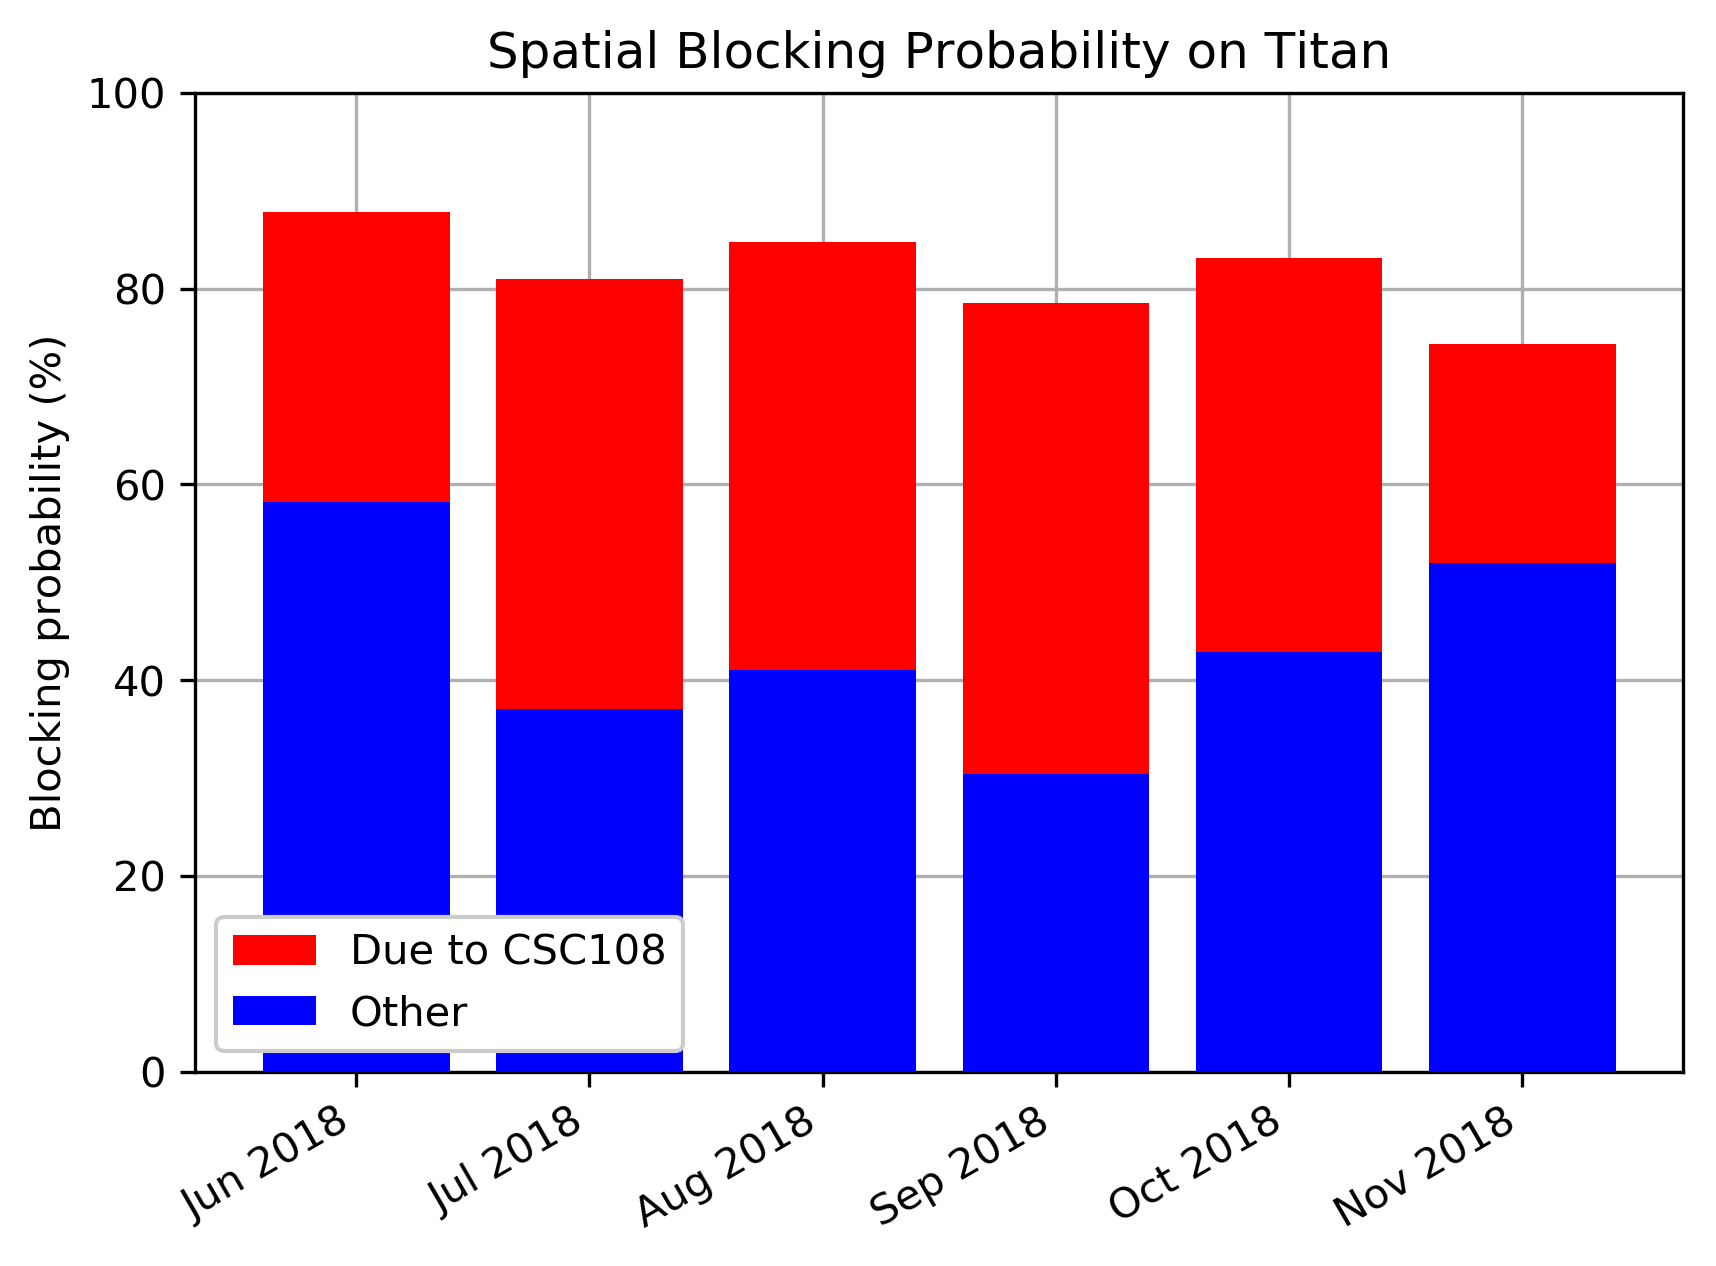
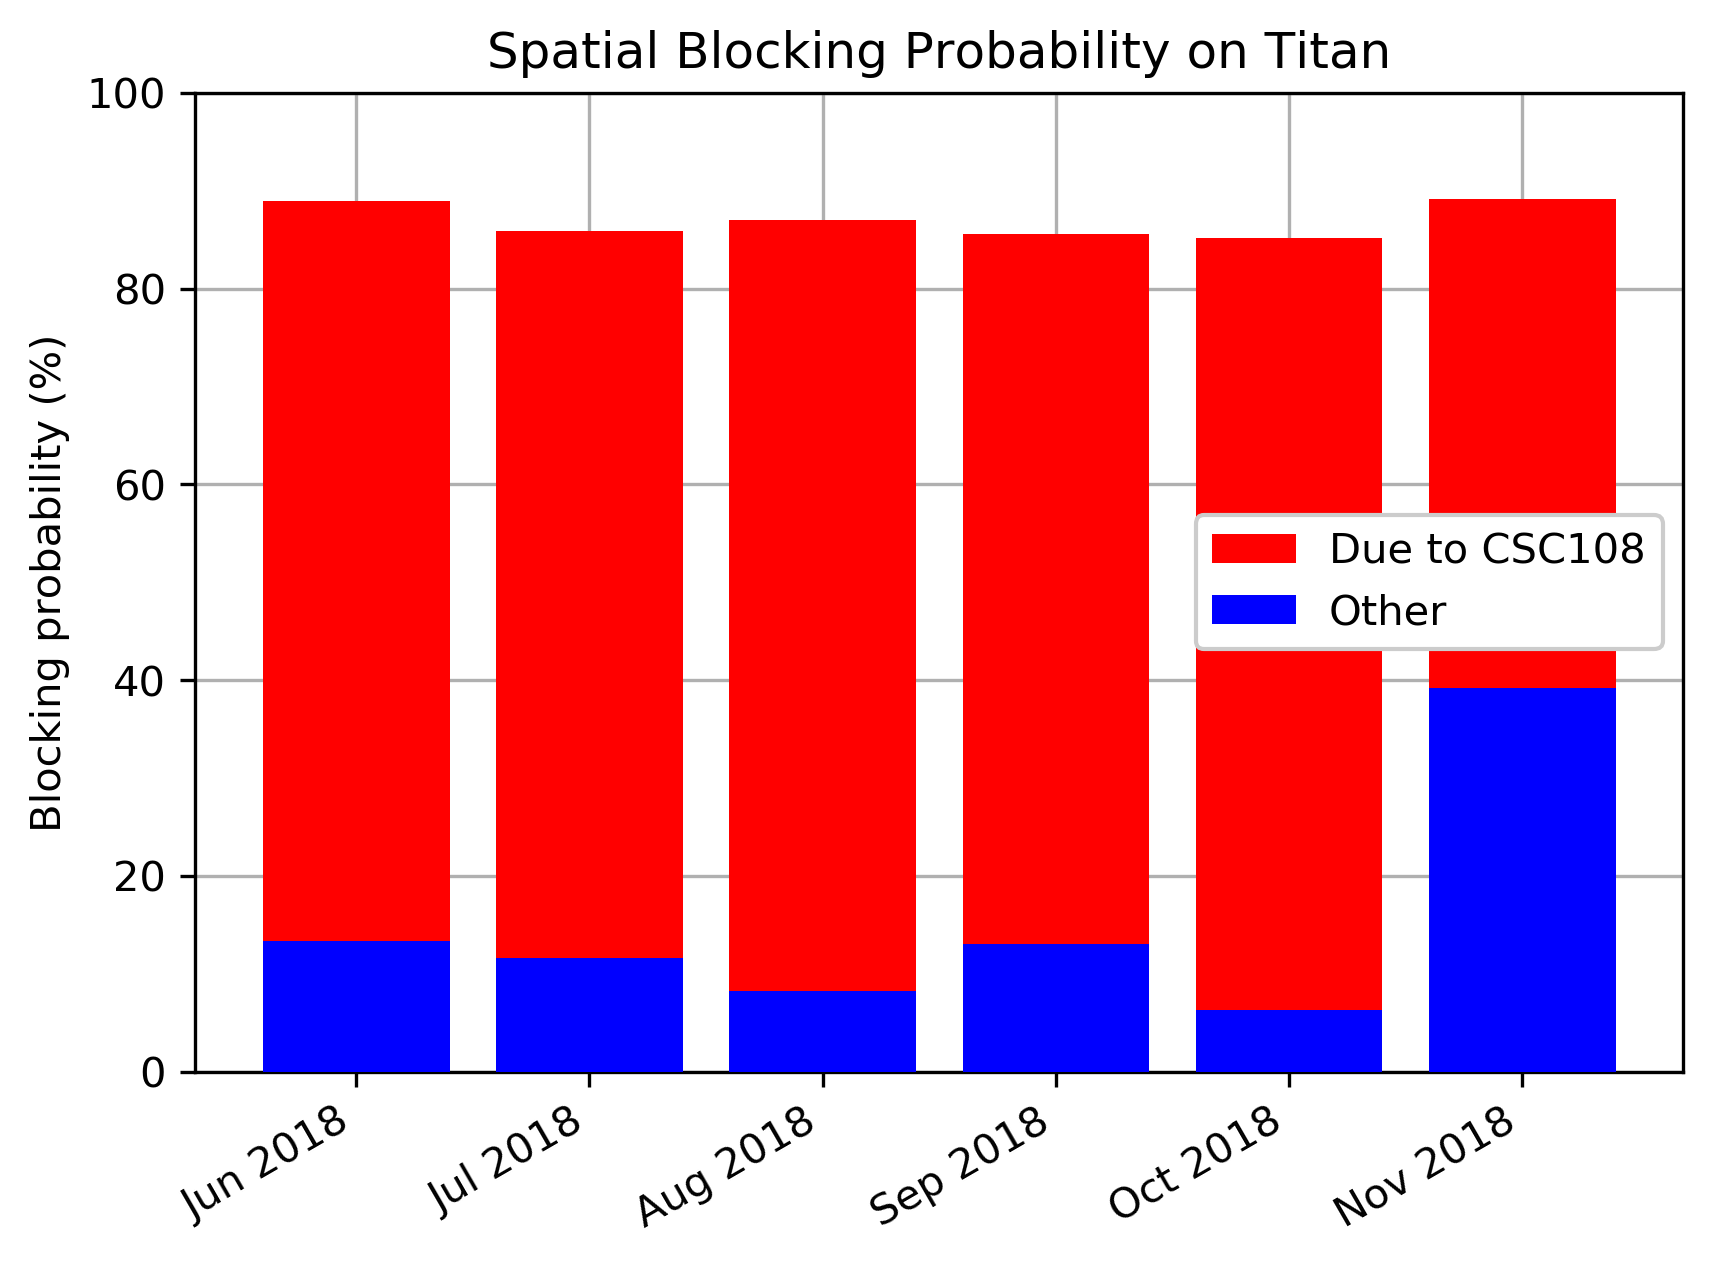
Captions for blocking bar plots

diff --git a/performance.tex b/performance.tex
@@ -178,7 +178,16 @@ considering jobs' requested wall times.
 % For example, with the graphicx package use
   \includegraphics[width=0.75\textwidth]{images/barplot-spatial-blocking-by-month.png}
 % figure caption is below the figure
-\caption{(placeholder)}
+\caption{This figure shows the spatial blocking probabilities by month for
+samples where CSC108 was actively utilizing backfill opportunity. An eligible
+job in the batch queue is said to be blocked spatially when the job's number of
+requested nodes is too large to fit within the nodes available through backfill
+opportunity, so that the job must wait to run. The total height of the bars
+indicates the spatial blocking probability for the month, which is the
+percentage of samples in which at least one eligible job was spatially blocked.
+The red region indicates the percentage of samples in which at least one
+eligible job would no longer be spatially blocked if CSC108 freed its
+resources.}
 \label{fig:spatial-blocking-by-month}
 \end{figure*}
 
@@ -189,10 +198,18 @@ considering jobs' requested wall times.
 % For example, with the graphicx package use
   \includegraphics[width=0.75\textwidth]{images/barplot-temporal-blocking-by-month.png}
 % figure caption is below the figure
-\caption{(placeholder)}
+\caption{This figure shows the temporal blocking probabilities by month for
+samples where CSC108 was actively utilizing backfill opportunity.An eligible
+job in the batch queue is said to be blocked temporally when the job's
+requested wall time is too long to fit within the duration available through
+backfill opportunity, so that the job must wait to run. The total height of the
+bars indicates the temporal blocking probability for the month, which is the
+percentage of samples in which at least one eligible job was temporally
+blocked. The red region indicates the percentage of samples in which at least
+one eligible job would no longer be temporally blocked if CSC108 freed its
+resources.}
 \label{fig:temporal-blocking-by-month}
 \end{figure*}
-
 
 
 %%%%%%%%%%%%%%%%%%%%%%%%%%%%%%%%%%%%%%%%%%%%%%%%%%%%%%%%%%%%%%%%%%%%%%%%%%%%%%%%
